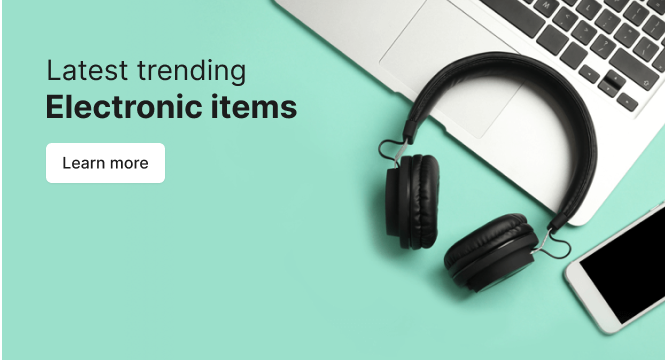
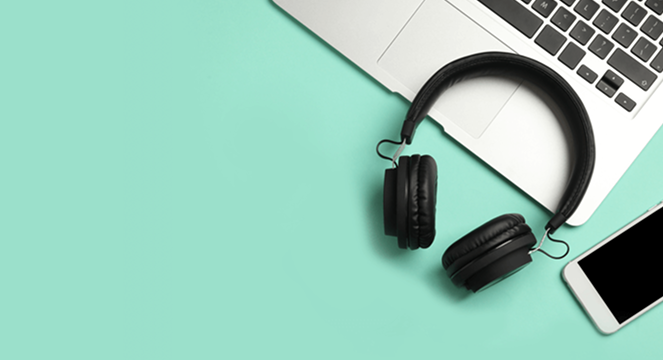
HomePage Sections Added

diff --git a/Client/src/pages/HomePage.jsx b/Client/src/pages/HomePage.jsx
@@ -1,9 +1,17 @@
 import React from "react";
 import Footer from "../components/Footer";
+import Homebanner from "../assets/Home and Outdoor/banner.png";
 import banner from "../assets/banner.png";
+import Consumerbanner from "../assets/Consumer Electronics/banner.png";
 import { useState } from "react";
 import { Link } from "react-router-dom";
 import { FaUser } from "react-icons/fa6";
+import {
+  techImage,
+  homeOutdoorItems,
+  consumerElectronicsItems,
+} from "../data/data.js";
+import CountdownTimer from "../components/CountdownTimer.jsx";
 
 // Placeholder images (replace with your actual assets)
 const productImages = {
@@ -31,7 +39,7 @@ const HomePage = () => {
   return (
     <div className="bg-gray-100 text-gray-800">
       {/* Main Content */}
-      <div className=" container mx-auto md:p-6 flex flex-col space-y-6">
+      <div className=" container mx-auto p-4 md:p-6 flex flex-col space-y-6">
         {/* Grid Layout for Desktop, Hidden Sidebars on Mobile */}
         <div className="flex flex-col md:grid md:grid-cols-5 md:gap-3 bg-white p-5 rounded-lg">
           {/* Left Sidebar: Categories (Hidden on Mobile) */}
@@ -61,18 +69,28 @@ const HomePage = () => {
           </div>
 
           {/* Main Banner */}
-          <div className="md:col-span-3">
-            <Link to={""}>
-              <div
-                className="p-4 md:p-6 rounded-lg text-center flex flex-col justify-center h-full "
-                style={{
-                  backgroundImage: `url(${banner})`,
-                  backgroundSize: "contain",
-                  backgroundPosition: "top ",
-                  backgroundRepeat: "no-repeat",
-                }}
-              ></div>
-            </Link>
+          <div className="w-full md:col-span-3">
+            <div
+              className="p-4 sm:p-6 rounded-lg flex flex-col items-start h-[80vh] md:h-full bg-green-200"
+              style={{
+                backgroundImage: `url(${banner})`,
+                backgroundSize: "cover",
+                backgroundPosition: "center",
+                backgroundRepeat: "no-repeat",
+              }}
+            >
+              <div className="flex flex-col space-y-3  md:p-8">
+                <p className="text-lg sm:text-xl text-gray-800">
+                  Latest trending
+                </p>
+                <h2 className="text-2xl sm:text-4xl font-bold text-gray-800">
+                  Electronic items
+                </h2>
+                <button className="inline-block bg-white text-gray-800 py-2  rounded-lg border border-gray-300 hover:bg-gray-100">
+                  Learn more
+                </button>
+              </div>
+            </div>
           </div>
 
           {/* Right Sidebar: User and Promos (Hidden on Mobile) */}
@@ -117,30 +135,21 @@ const HomePage = () => {
         </div>
 
         {/* Deals and Offers Section */}
-        <div>
-          <div className="flex items-center justify-between mb-4">
-            <h3 className="text-lg font-semibold">Deals and offers</h3>
-            <div className="flex space-x-2 text-sm bg-gray-200 px-3 py-1 rounded">
-              <span>04</span>
-              <span>13</span>
-              <span>34</span>
-              <span>56</span>
-            </div>
+        <div className="flex flex-col md:flex-row bg-white p-5 rounded-lg shadow">
+          <div className="flex  md:flex-col md:justify-start justify-between space-y-2 mb-4 p-1 border-r">
+            <span>
+              <h3 className="text-lg font-semibold">Deals and offers</h3>
+              <p className="text-lg text-gray-500">Hygeine Equipments</p>
+            </span>
+            {/* <Countdown date={countdownDate} renderer={renderer} /> */}
+            <CountdownTimer />
           </div>
           {/* Product Grid: Scrollable on Mobile, Grid on Desktop */}
-          <div className="flex overflow-x-auto md:grid md:grid-cols-5 md:gap-4 space-x-4 md:space-x-0">
-            {[
-              { name: "Jacket", discount: "25%", image: productImages.jacket },
-              {
-                name: "Headphones",
-                discount: "25%",
-                image: productImages.headphones,
-              },
-              { name: "Laptop", discount: "25%", image: productImages.laptop },
-            ].map((product, index) => (
+          <div className="flex overflow-x-auto md:grid md:grid-cols-5 md:gap-4 space-x-4 md:space-x-0 hide-scrollbar">
+            {techImage.map((product, index) => (
               <div
                 key={index}
-                className="bg-white p-4 rounded-lg shadow text-center flex-shrink-0 w-40 md:w-auto"
+                className="bg-white p-4 rounded-lg shadow text-center space-y-1 flex-shrink-0 w-40 "
               >
                 <img
                   src={product.image}
@@ -148,10 +157,123 @@ const HomePage = () => {
                   className="w-full h-24 md:h-32 object-contain mb-2"
                 />
                 <h4 className="text-sm font-medium">{product.name}</h4>
-                <p className="text-red-500 text-sm">-{product.discount}</p>
+                <p className="inline-block text-red-500 text-sm font-semibold  px-4 bg-red-200 rounded-xl">
+                  -{product.discount}
+                </p>
               </div>
             ))}
           </div>
+        </div>
+
+        {/* Home and Outdoor */}
+
+        <div className="flex flex-col md:flex-row bg-white rounded-lg shadow">
+          {/* Banner Section */}
+          <h4 className="text-xl py-2 px-4 font-bold text-gray-800 mb-2 md:hidden">
+            Home and Outdoor
+          </h4>
+          <div
+            className="hidden md:flex flex-col justify-start items-start py-8 px-6 w-full md:w-1/3 "
+            style={{
+              backgroundImage: `url(${Homebanner})`,
+              backgroundSize: "cover",
+              backgroundPosition: "center",
+              backgroundRepeat: "no-repeat",
+            }}
+          >
+            <h2 className="text-lg md:text-xl font-bold text-gray-800 mb-2">
+              Home and Outdoor
+            </h2>
+            <button className="bg-white font-semibold text-gray-800 py-2 px-4 rounded-lg border border-gray-300 hover:bg-gray-100">
+              Source now
+            </button>
+          </div>
+          {/* Product Grid */}
+          <div className="flex overflow-x-auto md:grid md:grid-cols-4 ">
+            {homeOutdoorItems.map((product, index) => (
+              <div
+                key={index}
+                className="flex flex-col-reverse md:flex-row md:items-start justify-between bg-white p-4 text-center border "
+              >
+                <div className="flex flex-col ">
+                  <h4 className="text-lg font-medium text-nowrap text-gray-800">
+                    {product.name}
+                  </h4>
+                  <span className="flex md:flex-col text-nowrap md:text-wrap items-start space-x-1">
+                    <p className="text-md text-gray-600">From</p>
+                    <p className="text-md text-gray-600">USD {product.price}</p>
+                  </span>
+                </div>
+                <img
+                  src={product.image}
+                  alt={product.name}
+                  className="md:relative h-32 w-32 md:h-14 md:w-14 top-6 mr-2 mb-2"
+                />
+              </div>
+            ))}
+          </div>
+          <button className="md:hidden inline-block text-xl font-bold text-start text-blue-400 py-2 px-4 rounded-lg  hover:text-blue-800">
+            Source now
+          </button>
+        </div>
+
+        {/* Consumer Electronics and Gadgets */}
+        <div className="flex flex-col md:flex-row bg-white rounded-lg shadow">
+          {/* Banner Section */}
+          <h4 className="text-xl py-2 px-4 font-bold text-gray-800 mb-2 md:hidden">
+            Consumer Electronics and Gadgets
+          </h4>
+          <div
+            className="hidden md:flex flex-col justify-start items-start py-8 px-6 w-full md:w-1/3 "
+            style={{
+              backgroundImage: `url(${Consumerbanner})`,
+              backgroundSize: "cover",
+              backgroundPosition: "center",
+              backgroundRepeat: "no-repeat",
+            }}
+          >
+            <span className="flex flex-col">
+              <h2 className="text-lg md:text-xl font-bold text-gray-800 mb-2">
+                Consumer
+              </h2>
+              <h2 className="text-lg md:text-xl font-bold text-gray-800 mb-2">
+                Electronics and
+              </h2>
+              <h2 className="text-lg md:text-xl font-bold text-gray-800 mb-2">
+                Gadgets
+              </h2>
+            </span>
+            <button className="bg-white font-semibold text-gray-800 py-2 px-4 rounded-lg border border-gray-300 hover:bg-gray-100">
+              Source now
+            </button>
+          </div>
+          {/* Product Grid */}
+          <div className="flex overflow-x-auto md:grid md:grid-cols-4 ">
+            {consumerElectronicsItems.map((product, index) => (
+              <div
+                key={index}
+                className="flex flex-col-reverse md:flex-row md:items-start justify-between bg-white p-4 text-center border "
+              >
+                <div className="flex flex-col ">
+                  <h4 className="text-lg font-medium text-nowrap text-gray-800">
+                    {product.name}
+                  </h4>
+                  <span className="flex md:flex-col text-nowrap md:text-wrap items-start space-x-1">
+                    <p className="text-md text-gray-600">From</p>
+                    <p className="text-md text-gray-600">USD {product.price}</p>
+                  </span>
+                </div>
+                <img
+                  src={product.image}
+                  alt={product.name}
+                  className="md:relative h-32 w-32 md:h-14 md:w-14 top-6 mr-2 mb-2"
+                />
+              </div>
+            ))}
+          </div>
+          <button className="md:hidden inline-block text-xl font-bold text-start text-blue-400 py-2 px-4 rounded-lg  hover:text-blue-800">
+            Source now
+          </button>
         </div>
       </div>
 

diff --git a/Client/src/data/data.js b/Client/src/data/data.js
@@ -81,7 +81,6 @@ const countryFlags = [
   },
 ];
 
-
 const languages = [
   { code: "US", language: "English", emoji: "🇺🇸" },
   { code: "FR", language: "French", emoji: "🇫🇷" },
@@ -89,4 +88,66 @@ const languages = [
   { code: "JP", language: "Japanese", emoji: "🇯🇵" },
 ];
 
-export { searchCategories, navCategories, countryFlags, languages };
+import phone from "../assets/tech/Canon cameras.png";
+import watch from "../assets/tech/Smart watches.png";
+import camera from "../assets/tech/GoPro cameras.png";
+import Laptop from "../assets/tech/Laptops.png";
+import headphone from "../assets/tech/Headphones.png";
+
+const techImage = [
+  { name: "Smart watches", image: watch, discount: 20 },
+  { name: "Canon cameras", image: phone, discount: 25 },
+  { name: "GoPro cameras", image: camera, discount: 30 },
+  { name: "Laptops", image: Laptop, discount: 29 },
+  { name: "Headphones", image: headphone, discount: 10 },
+];
+
+import blenders from "../assets/Home and Outdoor/blenders.png";
+import coffeeMaker from "../assets/Home and Outdoor/coffee maker.png";
+import kitchenDishes from "../assets/Home and Outdoor/kitchen dishes.png";
+import kitchenMixer from "../assets/Home and Outdoor/kitchen mixer.png";
+import sofaAndChair from "../assets/Home and Outdoor/sofa and chair.png";
+import softChair from "../assets/Home and Outdoor/soft chair.png";
+import smartWatches from "../assets/Home and Outdoor/smart watches.png";
+import homeAppliance from "../assets/Home and Outdoor/home appliances.png";
+
+const homeOutdoorItems = [
+  { name: "Soft Chairs", image: softChair, price: "19" },
+  { name: "Sofa & Chair", image: sofaAndChair, price: "19" },
+  { name: "Kitchen Dishes", image: kitchenDishes, price: "19" },
+  { name: "Smart watches", image: smartWatches, price: "19" },
+  { name: "Kitchen Mixers", image: kitchenMixer, price: "100" },
+  { name: "Blenders", image: blenders, price: "39" },
+  { name: "Home Appliance", image: homeAppliance, price: "19" },
+  { name: "Coffee Makers", image: coffeeMaker, price: "10" },
+];
+
+import cameras from "../assets/Consumer Electronics/Cameras.png";
+import electricKettle from "../assets/Consumer Electronics/ElectricKattle.png";
+import gamingSet from "../assets/Consumer Electronics/Gamingset.png";
+import headphones from "../assets/Consumer Electronics/Headphones.png";
+import laptopsAndPC from "../assets/Consumer Electronics/LaptopsPC.png";
+import SmartWatches from "../assets/Consumer Electronics/smartwatches.png";
+import smart from "../assets/Consumer Electronics/Smart.png";
+import smartphones from "../assets/Consumer Electronics/Smartphones.png";
+
+const consumerElectronicsItems = [
+  { name: "Cameras", image: cameras, price: "USD 199" },
+  { name: "Electric Kettle", image: electricKettle, price: "USD 29" },
+  { name: "Gaming Sets", image: gamingSet, price: "USD 149" },
+  { name: "Headphones", image: headphones, price: "USD 59" },
+  { name: "Laptops & PCs", image: laptopsAndPC, price: "USD 799" },
+  { name: "Smart Watches", image: SmartWatches, price: "USD 99" },
+  { name: "Smart Devices", image: smart, price: "USD 49" },
+  { name: "Smartphones", image: smartphones, price: "USD 499" },
+];
+
+export {
+  searchCategories,
+  navCategories,
+  countryFlags,
+  languages,
+  techImage,
+  homeOutdoorItems,
+  consumerElectronicsItems,
+};

diff --git a/Client/src/components/CountdownTimer.jsx b/Client/src/components/CountdownTimer.jsx
@@ -1,0 +1,35 @@
+import Countdown from "react-countdown";
+
+const renderer = ({ days, hours, minutes, seconds }) => (
+  <div className="flex space-x-2">
+    {[
+      { value: days, label: "Days" },
+      { value: hours, label: "Hour" },
+      { value: minutes, label: "Min" },
+      { value: seconds, label: "Sec" },
+    ].map((item, index) => (
+      <div
+        key={index}
+        className="bg-gray-800 text-white text-center py-2 px-3 rounded-lg w-12"
+      >
+        <span className="text-lg font-semibold">
+          {item.value.toString().padStart(2, "0")}
+        </span>
+        <div className="text-xs">{item.label}</div>
+      </div>
+    ))}
+  </div>
+);
+
+const countdownDate =
+  Date.now() +
+  4 * 24 * 60 * 60 * 1000 +
+  13 * 60 * 60 * 1000 +
+  34 * 60 * 1000 +
+  56 * 1000;
+
+const CountdownTimer = () => {
+  return <Countdown date={countdownDate} renderer={renderer} />;
+};
+
+export default CountdownTimer;
